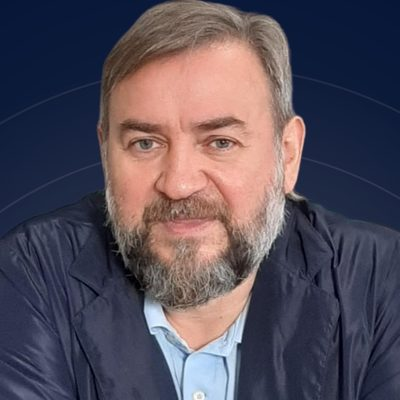
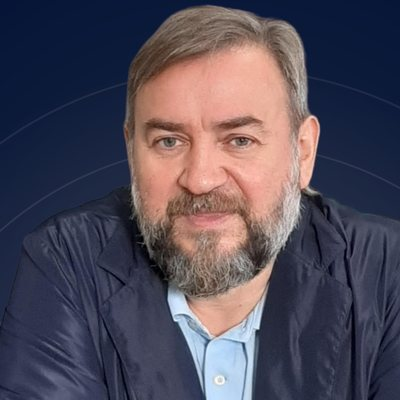
Единый логотип Мой бизнес + ЦРПП, фото спикеров выровнены по лицу
Claude-Session: https://claude.ai/code/session_01D9n6SuWGW3kjWxzi2ecQZ2

diff --git a/index.html b/index.html
@@ -729,12 +729,8 @@
     <h3>Партнёры</h3>
     <div class="partners-grid">
       <div class="partner-item reveal">
-        <div class="partner-logo"><img src="img/partners/moy-biznes.png" alt="Мой бизнес" loading="lazy"></div>
-        <div class="partner-desc">Центр оказания услуг для предпринимателей</div>
-      </div>
-      <div class="partner-item reveal">
-        <div class="partner-logo"><img src="img/partners/crpp.png" alt="ЦРПП" loading="lazy"></div>
-        <div class="partner-desc">Центр развития и поддержки предпринимательства СПб</div>
+        <div class="partner-logo"><img src="img/partners/moy-biznes-crpp.png" alt="Мой бизнес · ЦРПП Санкт-Петербург" loading="lazy"></div>
+        <div class="partner-desc">Центр «Мой бизнес» · Центр развития и поддержки предпринимательства СПб</div>
       </div>
       <div class="partner-item reveal">
         <div class="partner-logo"><img src="img/partners/cifrovye-resheniya.png" alt="Цифровые решения" loading="lazy"></div>
